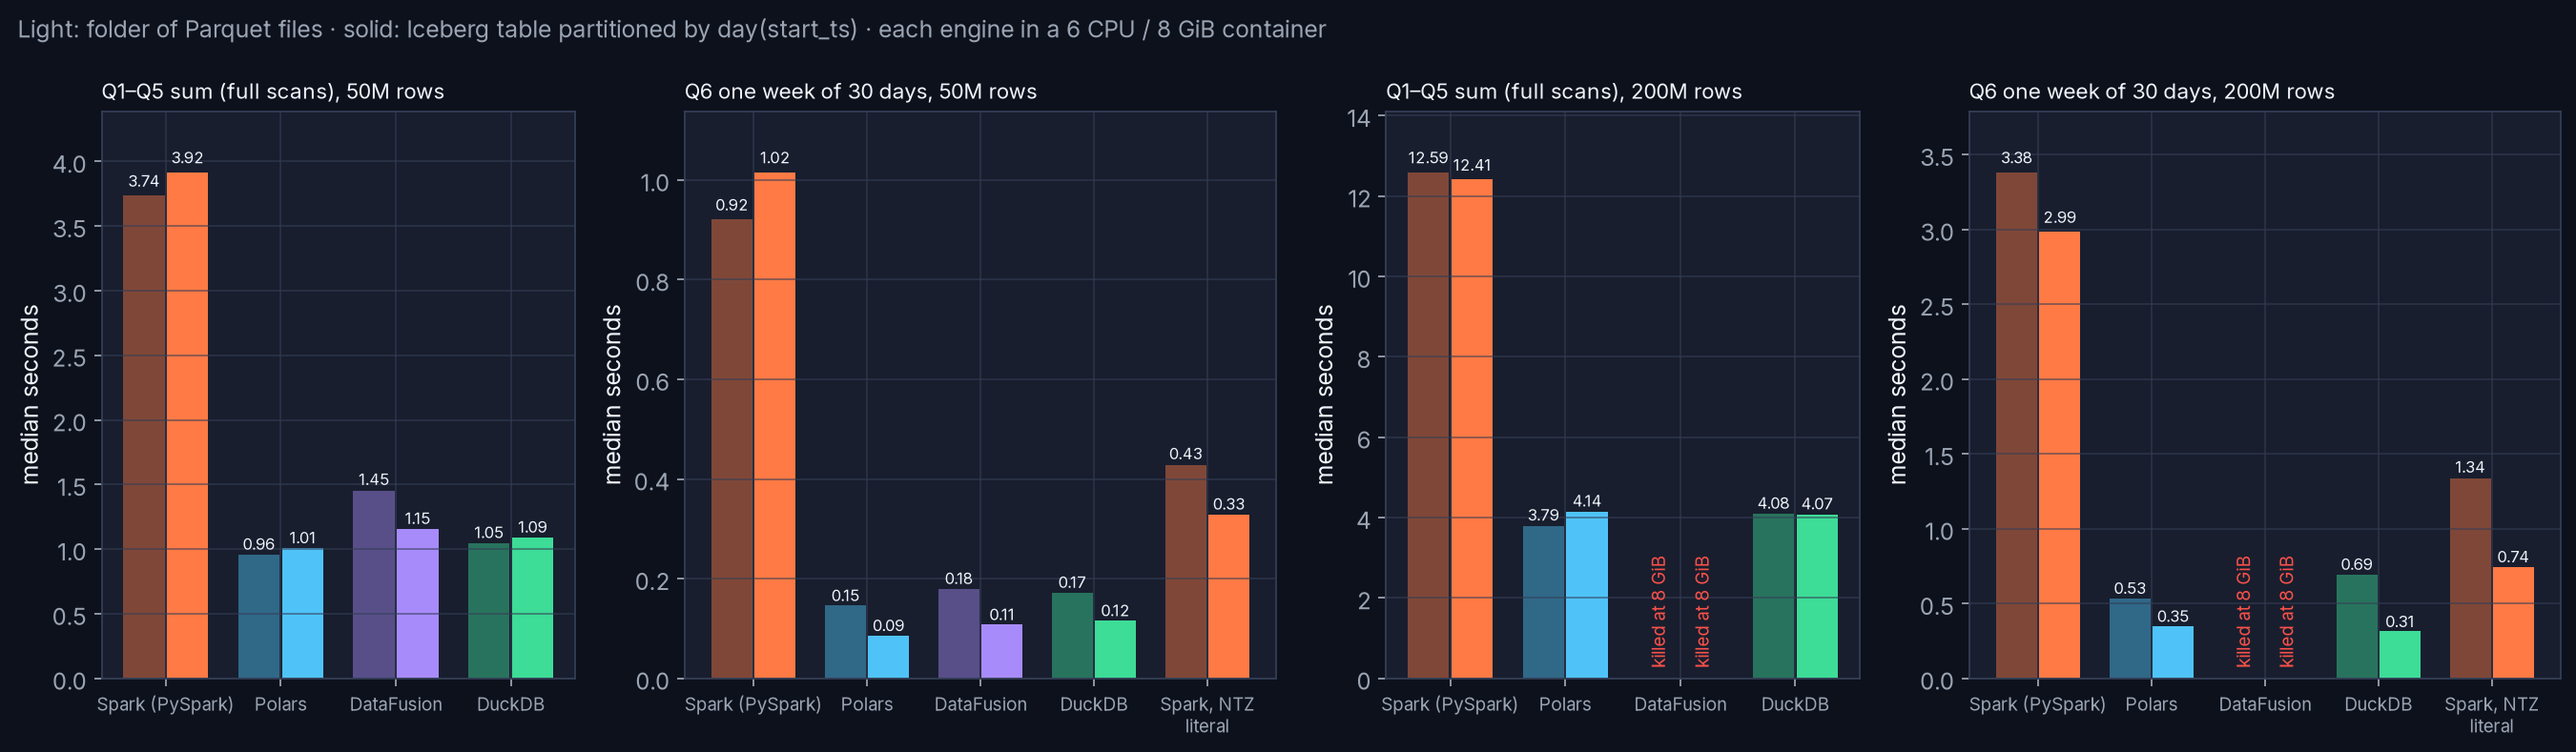
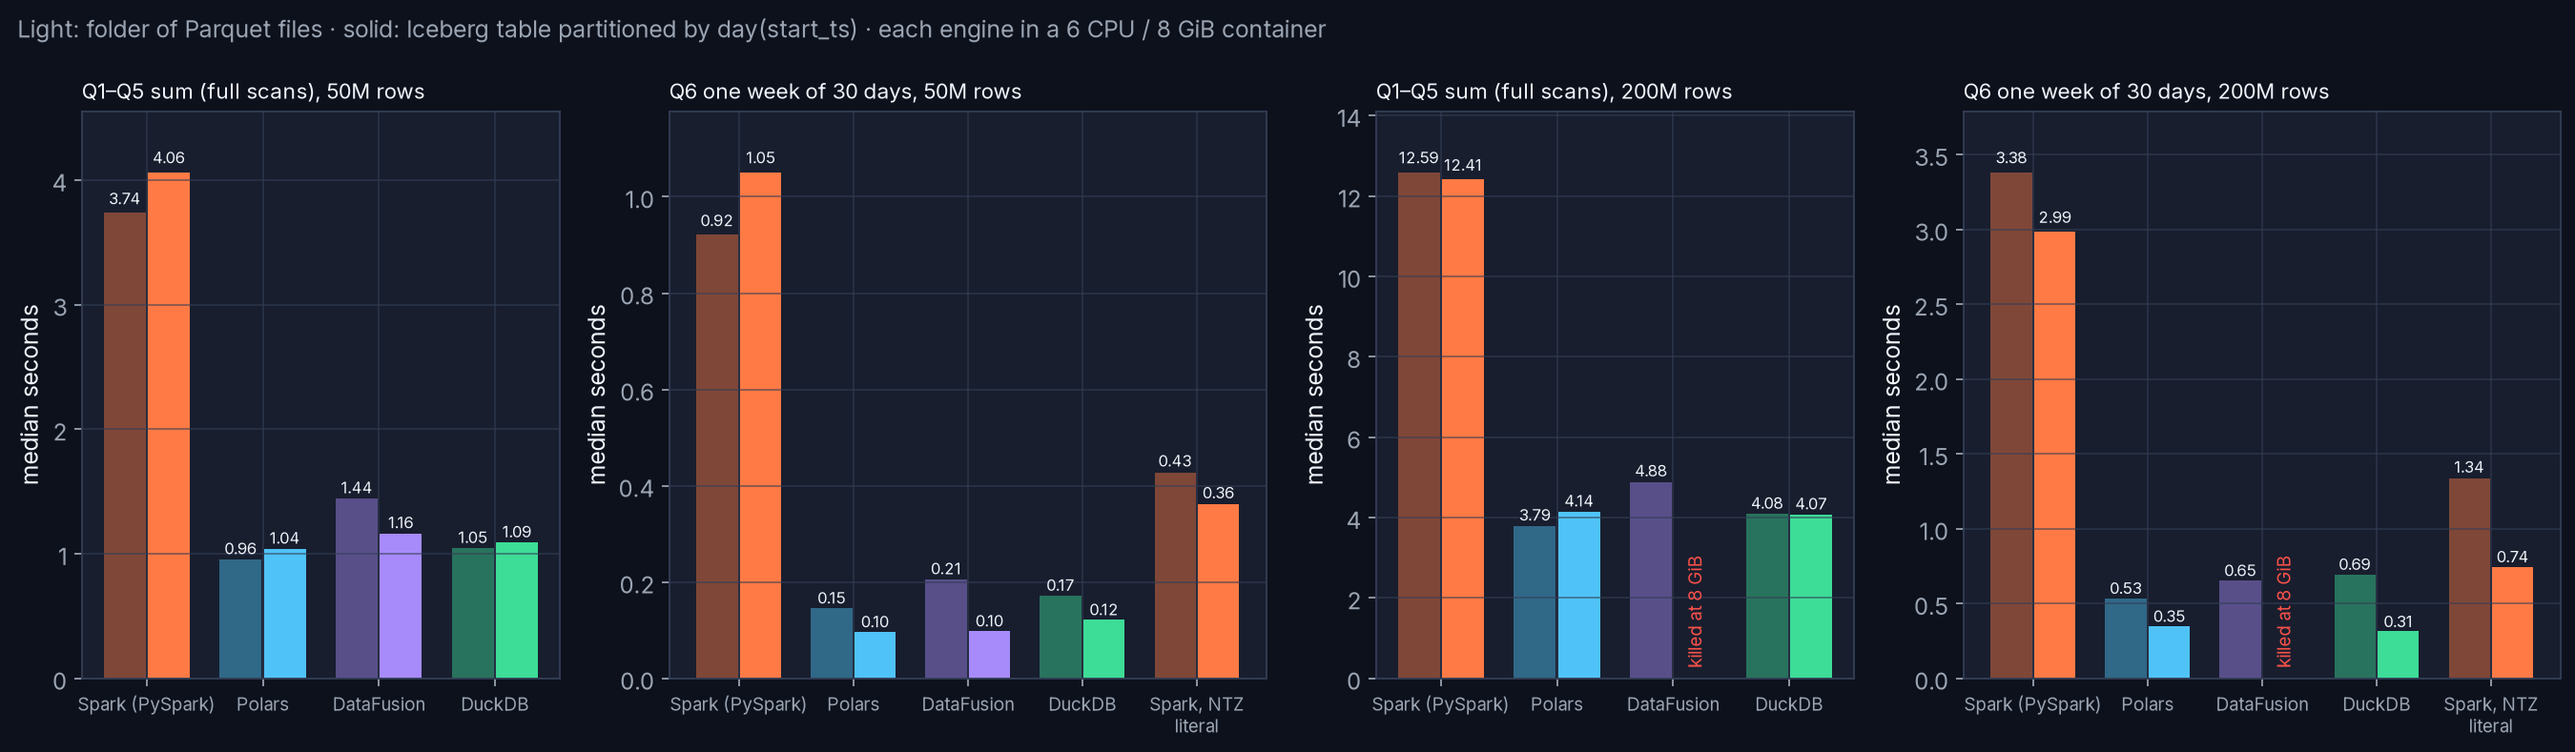
charts: DataFusion memory per run and per column, NTZ pruning repro; query, scaling, overhead and Iceberg charts regenerated with DataFusion at 200M

diff --git a/viz/make_charts.py b/viz/make_charts.py
@@ -132,8 +132,65 @@ def iceberg():
     fig.tight_layout(); fig.savefig(IMG / "iceberg.png"); plt.close(fig)
 
 
+def df_memory():
+    """DataFusion at 200M rows: resident memory after each of 24 query runs, per configuration."""
+    d = json.loads((RESULTS / "df_memory_200m.json").read_text())["variants"]
+    show = [("baseline", "default (as in the first run)", HEX["RED"], "-"),
+            ("spill_pool_4g", "fair spill pool 4 GiB", HEX["ORANGE"], "--"),
+            ("glibc_arena2", "MALLOC_ARENA_MAX=2 (glibc)", HEX["YELLOW"], ":"),
+            ("session_per_run", "new SessionContext per run", HEX["GREY"], "-."),
+            ("mimalloc_purge0", "MIMALLOC_PURGE_DELAY=0", HEX["WHITE"], ":"),
+            ("mimalloc_segments2", "MIMALLOC_TARGET_SEGMENTS_PER_THREAD=2", HEX["GREEN"], "-"),
+            ("pause12", "12 s pause between runs (idle I/O threads exit)", HEX["ICE"], "-")]
+    fig, (a1, a2) = plt.subplots(1, 2, figsize=(17, 5.2), gridspec_kw={"width_ratios": [1.6, 1]})
+    labels = None
+    for v, lab, col, ls in show:
+        runs = d[v]["runs"]
+        a1.plot(range(1, len(runs) + 1), [r["rss_gib"] for r in runs], ls, color=col, lw=2, label=lab, marker="o", ms=3)
+        if d[v]["exit"]:
+            a1.scatter([len(runs) + 1], [8.0], marker="X", s=110, color=col, zorder=5)
+        labels = [r["query"].split("_")[0].upper() for r in runs] if len(runs) == 24 else labels
+    a1.axhline(8, color=HEX["RED"], lw=1, ls="--"); a1.text(0.6, 7.75, "container limit 8 GiB; X = killed (exit 137)", color=HEX["RED"], fontsize=9, va="top")
+    a1.set_xticks([1 + 4 * i for i in range(6)], ["Q1", "Q2", "Q3", "Q4", "Q5", "Q6"])
+    a1.set_xlabel("query run (each query 4 times, in benchmark order)"); a1.set_ylabel("resident memory after the run (GiB)")
+    a1.set_ylim(0, 8.6); a1.legend(fontsize=8.5, loc="upper right")
+    a1.set_title("DataFusion 55, 200M rows, one process · 6 CPU / 8 GiB", loc="left")
+    p = json.loads((RESULTS / "df_column_probe_200m.json").read_text())["columns"]
+    cols = [f"sum({c})" for c in p]
+    growth = {f"sum({c})": (v["added_per_run_gib"], v["compressed_column_gib"]) for c, v in p.items()}
+    xs = range(len(cols))
+    a2.bar([x - 0.2 for x in xs], [growth[c][0] for c in cols], 0.38, color=HEX["PURPLE"], label="memory added per run")
+    a2.bar([x + 0.2 for x in xs], [growth[c][1] for c in cols], 0.38, color=HEX["GREY"], label="compressed size of the column read")
+    for x, c in zip(xs, cols):
+        a2.text(x - 0.2, growth[c][0] + 0.02, f"{growth[c][0]:.2f}", ha="center", fontsize=9)
+        a2.text(x + 0.2, growth[c][1] + 0.02, f"{growth[c][1]:.2f}", ha="center", fontsize=9)
+    a2.set_xticks(list(xs), cols); a2.set_ylabel("GiB"); a2.set_ylim(0, 1.1); a2.legend(fontsize=9, loc="upper left")
+    a2.set_title("What grows: about the bytes each run reads", loc="left")
+    fig.tight_layout(); fig.savefig(IMG / "df_memory.png"); plt.close(fig)
+
+
+def ntz_repro():
+    d = json.loads((RESULTS.parent / "examples" / "spark_ntz_pruning" / "result.json").read_text())
+    v = d["variants"]
+    labs = ["A  TIMESTAMP '…'\n(portable literal)", "B  TIMESTAMP_NTZ '…'", "C  TIMESTAMP '…' with\nspark.sql.timestampType=NTZ"]
+    cols = [HEX["RED"], HEX["GREEN"], HEX["GREEN"]]
+    fig, (a1, a2) = plt.subplots(1, 2, figsize=(15, 4.6))
+    xs = range(3)
+    a1.bar(xs, [x["resultDataFiles"] for x in v], 0.55, color=cols)
+    for x, r in zip(xs, v):
+        a1.text(x, r["resultDataFiles"] + 0.6, f"{r['resultDataFiles']} read · {r['skippedDataFiles']} skipped", ha="center", fontsize=10)
+    a1.set_xticks(list(xs), labs, fontsize=9); a1.set_ylim(0, d["table_files"] * 1.25)
+    a1.set_ylabel("data files the Iceberg scan read"); a1.set_title(f"One-week filter on a {d['days']}-day table ({d['table_files']} files)", loc="left")
+    a2.bar(xs, [x["median_s_of_5"] * 1000 for x in v], 0.55, color=cols)
+    for x, r in zip(xs, v):
+        a2.text(x, r["median_s_of_5"] * 1000 + 4, f"{r['median_s_of_5'] * 1000:.0f} ms", ha="center", fontsize=10)
+    a2.set_xticks(list(xs), labs, fontsize=9); a2.set_ylabel("median of 5 runs (ms)")
+    a2.set_title(f"Same {v[0]['rows']:,} rows returned every time · Spark {d['spark']}", loc="left")
+    fig.tight_layout(); fig.savefig(IMG / "ntz_pruning.png"); plt.close(fig)
+
+
 if __name__ == "__main__":
     IMG.mkdir(parents=True, exist_ok=True)
-    for f in (query_times, overhead, udf, scaling, iceberg):
+    for f in (query_times, overhead, udf, scaling, iceberg, df_memory, ntz_repro):
         f()
     print("charts written")
